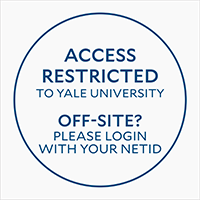
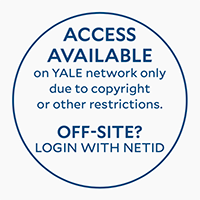
Changes access denied messaging (#641)
* changed helper text

* updated specs

* Changed wording on the restricted placeholder icon

* Modified icon lines on the restricted access image

Changed region(s): [[0.06, 0.06, 0.96, 0.96], [0.18, 0.18, 0.21, 0.21]]

diff --git a/spec/system/view_images_in_search_spec.rb b/spec/system/view_images_in_search_spec.rb
@@ -87,7 +87,7 @@ RSpec.describe 'Search results displays images', type: :system, clean: true, js:
         visit '/catalog?q=&search_field=all_fields'
         click_link 'test_record_2'
 
-        expect(page).to have_content('The digital version of this work is restricted to the Yale Community.')
+        expect(page).to have_content('The digital version of this work is restricted due to copyright or other restrictions.')
         expect(page).to have_content('Please login using your Yale NetID or contact library staff to inquire about access to a physical copy.')
       end
     end
@@ -109,7 +109,7 @@ RSpec.describe 'Search results displays images', type: :system, clean: true, js:
         visit '/catalog?q=&search_field=all_fields'
         click_link 'test_record_2'
 
-        expect(page).not_to have_content('The digital version of this work is restricted to the Yale Community.')
+        expect(page).not_to have_content('The digital version of this work is restricted due to copyright or other restrictions.')
         expect(page).not_to have_content('Please login using your Yale NetID or contact library staff to inquire about access to a physical copy.')
       end
     end

diff --git a/app/helpers/access_helper.rb b/app/helpers/access_helper.rb
@@ -22,7 +22,7 @@ module AccessHelper
   def restriction_message(document)
     case document['visibility_ssi']
     when 'Yale Community Only'
-      return "The digital version of this work is restricted to the Yale Community."
+      return "The digital version of this work is restricted due to copyright or other restrictions."
     end
     "The digital version is restricted."
   end
